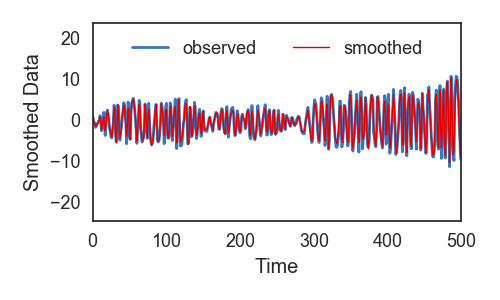
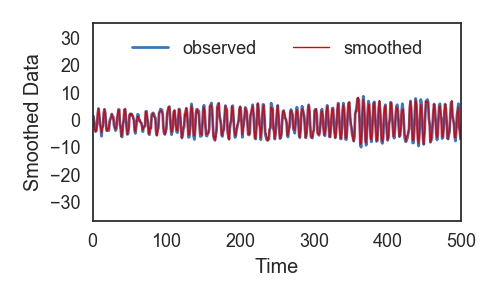
adding mean field support for inputs

diff --git a/pyslds/states.py b/pyslds/states.py
@@ -2,6 +2,7 @@ from __future__ import division
 import numpy as np
 from functools import partial
 
+from pybasicbayes.util.general import objarray
 from pybasicbayes.util.stats import mniw_expectedstats
 
 from pyhsmm.internals.hmm_states import HMMStatesPython, HMMStatesEigen
@@ -42,6 +43,8 @@ class _SLDSStates(object):
 
         elif stateseq is not None:
             self.stateseq = np.array(stateseq,dtype=np.int32)
+            self.generate_gaussian_states()
+
         elif generate:
             if data is not None and not initialize_from_prior:
                 self.resample()
@@ -323,6 +326,11 @@ class _SLDSStatesGibbs(_SLDSStates):
 
 
 class _SLDSStatesMeanField(_SLDSStates):
+    def __init__(self, model, **kwargs):
+        super(_SLDSStatesMeanField, self).__init__(model, **kwargs)
+        self.smoothed_mus = np.zeros((self.T, self.D_latent))
+        self.smoothed_sigmas = np.tile(np.eye(self.D_latent)[None, :, :], (self.T, self.D_latent))
+
     @property
     def expected_info_dynamics_params(self):
         def get_paramseq(distns):
@@ -394,47 +402,19 @@ class _SLDSStatesMeanField(_SLDSStates):
                self.expected_info_emission_params
 
     @property
-    def expected_extra_info_params(self):
-        J_init = np.linalg.inv(self.sigma_init)
-        h_init = np.linalg.solve(self.sigma_init, self.mu_init)
-
-        def get_paramseq(distns):
-            contract = partial(np.tensordot, self.expected_states, axes=1)
-            std_param = lambda d: d._natural_to_standard(d.mf_natural_hypparam)
-            params = [mniw_expectedstats(*std_param(d)) for d in distns]
-            return list(map(contract, zip(*params)))
-
-        expand = lambda a: a[None, ...]
-        stack_set = lambda x: np.concatenate(list(map(expand, x)))
-
-        _, _, _, logdet_pairs = \
-            get_paramseq(self.dynamics_distns)
-
-        # Observations
-        if self.diagonal_noise:
-            E_sigmasq_inv_set = [d.mf_expectations[2] for d in self.emission_distns]
-            J_yy = self.expected_states.dot(stack_set(E_sigmasq_inv_set))
-
-            E_logdet_sigma_set = [-np.sum(d.mf_expectations[3]) for d in self.emission_distns]
-            logdet_node = self.expected_states.dot(stack_set(E_logdet_sigma_set))
-
-        else:
-            J_yy, _, _, logdet_node = get_paramseq(self.emission_distns)
-
-        return J_init, h_init, logdet_pairs, J_yy, logdet_node, self.data
-
-
-    @property
     def mf_aBl(self):
+        """
+        These are the expected log likelihoods (node potentials)
+        as seen from the discrete states.
+        """
         if self._mf_aBl is None:
             mf_aBl = self._mf_aBl = np.zeros((self.T, self.num_states))
             ids, dds, eds = self.init_dynamics_distns, self.dynamics_distns, \
                 self.emission_distns
 
-            # TODO: Update with inputs
             for idx, (d1, d2, d3) in enumerate(zip(ids, dds, eds)):
                 mf_aBl[0,idx] = d1.expected_log_likelihood(
-                    stats=(self.smoothed_mus[0], self.ExxT[0], 1.))
+                    stats=self.E_init_stats)
                 mf_aBl[:-1,idx] += d2.expected_log_likelihood(
                     stats=self.E_dynamics_stats)
                 mf_aBl[:,idx] += d3.expected_log_likelihood(
@@ -468,38 +448,48 @@ class _SLDSStatesMeanField(_SLDSStates):
             self.smoothed_mus,self.smoothed_sigmas,E_xtp1_xtT)
 
     def _set_gaussian_expected_stats(self, smoothed_mus, smoothed_sigmas, E_xtp1_xtT):
-        # TODO: Handle inputs
-
         assert not np.isnan(E_xtp1_xtT).any()
         assert not np.isnan(smoothed_mus).any()
         assert not np.isnan(smoothed_sigmas).any()
 
-        # this is like LDSStates._set_expected_states but doesn't sum over time
+        # This is like LDSStates._set_expected_states but doesn't sum over time
         T = self.T
-        ExxT = self.ExxT = smoothed_sigmas \
-                           + self.smoothed_mus[:, :, None] * self.smoothed_mus[:, None, :]
+        E_x_xT = smoothed_sigmas + self.smoothed_mus[:, :, None] * self.smoothed_mus[:, None, :]
+        E_x_uT = smoothed_mus[:, :, None] * self.inputs[:, None, :]
+        E_u_uT = self.inputs[:, :, None] * self.inputs[:, None, :]
+
+        E_xu_xuT = np.concatenate((
+            np.concatenate((E_x_xT, E_x_uT), axis=2),
+            np.concatenate((np.transpose(E_x_uT, (0, 2, 1)), E_u_uT), axis=2)),
+            axis=1)
+
+        E_xut_xutT = E_xu_xuT[:-1]
+
+        E_xtp1_xtp1T = E_x_xT[1:]
+        E_xtp1_xtT = E_xtp1_xtT
+
+        E_xtp1_utT = (smoothed_mus[1:, :, None] * self.inputs[:-1, None, :])
+        E_xtp1_xutT = np.concatenate((E_xtp1_xtT, E_xtp1_utT), axis=-1)
 
         # Initial state stats
-        self.E_init_stats = (self.smoothed_mus[0], ExxT[0], 1.)
+        self.E_init_stats = (self.smoothed_mus[0], E_x_xT[0], 1.)
 
         # Dynamics stats
         # TODO avoid memory instantiation by adding to Regression (2TD vs TD^2)
         # TODO only compute EyyT once
-        E_xtp1_xtp1T = self.E_xtp1_xtp1T = ExxT[1:]
-        E_xt_xtT = self.E_xt_xtT = ExxT[:-1]
-
-        self.E_dynamics_stats = \
-            (E_xtp1_xtp1T, E_xtp1_xtT, E_xt_xtT, np.ones(T-1))
+        # E_xtp1_xtp1T = self.E_xtp1_xtp1T = E_xu_xuT[1:]
+        # E_xt_xtT = self.E_xt_xtT = E_xu_xuT[:-1]
+        #
+        # self.E_dynamics_stats = \
+        #     (E_xtp1_xtp1T, E_xtp1_xtT, E_xt_xtT, np.ones(T-1))
+        self.E_dynamics_stats = (E_xtp1_xtp1T, E_xtp1_xutT, E_xut_xutT, np.ones(self.T-1))
 
         # Emission stats
-        if self.diagonal_noise:
-            EyyT = self.EyyT = self.data**2
-            EyxT = self.EyxT = self.data[:, :, None] * self.smoothed_mus[:, None, :]
-            self.E_emission_stats = (EyyT, EyxT, ExxT, np.ones(T))
-        else:
-            EyyT = self.EyyT = self.data[:, :, None] * self.data[:, None, :]
-            EyxT = self.EyxT = self.data[:, :, None] * self.smoothed_mus[:, None, :]
-            self.E_emission_stats = (EyyT, EyxT, ExxT, np.ones(T))
+        E_yyT = self.data**2 if self.diagonal_noise else self.data[:, :, None] * self.data[:, None, :]
+        E_yxT = self.data[:, :, None] * self.smoothed_mus[:, None, :]
+        E_yuT = self.data[:, :, None] * self.inputs[:, None, :]
+        E_yxuT = np.concatenate((E_yxT, E_yuT), axis=-1)
+        self.E_emission_stats = (E_yyT, E_yxuT, E_xu_xuT, np.ones(T))
 
 
     def get_vlb(self, most_recently_updated=False):
@@ -533,12 +523,14 @@ class _SLDSStatesMeanField(_SLDSStates):
 
 
 class _SLDSStatesMaskedData(_SLDSStatesGibbs, _SLDSStatesMeanField):
-    def __init__(self, model, T=None, data=None, inputs=None, mask=None, stateseq=None, gaussian_states=None,
-                 generate=True, initialize_from_prior=True, fixed_stateseq=None):
+    def __init__(self, model, data=None, mask=None, **kwargs):
         if mask is not None:
-            assert mask.shape == data.shape
+            # assert mask.shape == data.shape
             self.mask = mask
-        elif data is not None and np.any(np.isnan(data)):
+        elif data is not None and \
+             isinstance(data, np.ndarray) \
+             and np.any(np.isnan(data)):
+
             from warnings import warn
             warn("data includes NaN's. Treating these as missing data.")
             self.mask = ~np.isnan(data)
@@ -548,11 +540,7 @@ class _SLDSStatesMaskedData(_SLDSStatesGibbs, _SLDSStatesMeanField):
         else:
             self.mask = None
 
-        super(_SLDSStatesMaskedData, self).__init__(model, T=T, data=data, inputs=inputs,
-                                                    stateseq=stateseq, gaussian_states=gaussian_states,
-                                                    generate=generate,
-                                                    initialize_from_prior=initialize_from_prior,
-                                                    fixed_stateseq=fixed_stateseq)
+        super(_SLDSStatesMaskedData, self).__init__(model, data=data, **kwargs)
 
     @property
     def info_emission_params(self):
@@ -641,11 +629,11 @@ class _SLDSStatesMaskedData(_SLDSStatesGibbs, _SLDSStatesMeanField):
 
     @property
     def expected_info_emission_params(self):
-        if self.D_input > 0:
-            raise NotImplementedError("Inputs and missing data is not yet supported!")
-
         if self.mask is None:
             return super(_SLDSStatesMaskedData, self).expected_info_emission_params
+
+        if self.D_input > 0:
+            raise NotImplementedError("Inputs and missing data is not yet supported!")
 
         if self.diagonal_noise:
             expand = lambda a: a[None, ...]
@@ -722,17 +710,32 @@ class _SLDSStatesMaskedData(_SLDSStatesGibbs, _SLDSStatesMeanField):
         # Same as in parent class
         # this is like LDSStates._set_expected_states but doesn't sum over time
         T = self.T
-        ExxT = self.ExxT = smoothed_sigmas \
+        E_x_xT = self.ExxT = smoothed_sigmas \
                            + self.smoothed_mus[:, :, None] * self.smoothed_mus[:, None, :]
 
+        E_x_uT = smoothed_mus[:, :, None] * self.inputs[:, None, :]
+        E_u_uT = self.inputs[:, :, None] * self.inputs[:, None, :]
+
+        E_xu_xuT = np.concatenate((
+            np.concatenate((E_x_xT, E_x_uT), axis=2),
+            np.concatenate((np.transpose(E_x_uT, (0, 2, 1)), E_u_uT), axis=2)),
+            axis=1)
+        E_xut_xutT = E_xu_xuT[:-1].sum(0)
+
+        E_xtp1_xtp1T = E_x_xT[1:].sum(0)
+        E_xtp1_xtT = E_xtp1_xtT.sum(0)
+
+        E_xtp1_utT = (smoothed_mus[1:, :, None] * inputs[:-1, None, :]).sum(0)
+        E_xtp1_xutT = np.hstack((E_xtp1_xtT, E_xtp1_utT))
+
         # Initial state stats
-        self.E_init_stats = (self.smoothed_mus[0], ExxT[0], 1.)
+        self.E_init_stats = (self.smoothed_mus[0], E_x_xT[0], 1.)
 
         # Dynamics stats
-        # TODO avoid memory instantiation by adding to Regression (2TD vs TD^2)
-        # TODO only compute EyyT once
-        E_xtp1_xtp1T = self.E_xtp1_xtp1T = ExxT[1:]
-        E_xt_xtT = self.E_xt_xtT = ExxT[:-1]
+        # # TODO avoid memory instantiation by adding to Regression (2TD vs TD^2)
+        # # TODO only compute EyyT once
+        # E_xtp1_xtp1T = self.E_xtp1_xtp1T = ExxT[1:]
+        # E_xt_xtT = self.E_xt_xtT = ExxT[:-1]
 
         self.E_dynamics_stats = \
             (E_xtp1_xtp1T, E_xtp1_xtT, E_xt_xtT, np.ones(T - 1))
@@ -749,11 +752,11 @@ class _SLDSStatesMaskedData(_SLDSStatesGibbs, _SLDSStatesMeanField):
 
         self._mf_aBl = None  # TODO
 
+
 class _SLDSStatesCountData(_SLDSStatesGibbs):
-    def __init__(self, model, data=None, mask=None, fixed_stateseq=None, **kwargs):
+    def __init__(self, model, data=None, mask=None, **kwargs):
         super(_SLDSStatesCountData, self). \
-            __init__(model, data=data, mask=mask,
-                     fixed_stateseq=fixed_stateseq, **kwargs)
+            __init__(model, data=data, mask=mask, **kwargs)
 
         # Check if the emission matrix is a count regression
         if isinstance(self.emission_distns[0], _PGLogisticRegressionBase):

diff --git a/examples/simple_demo.py b/examples/simple_demo.py
@@ -23,7 +23,7 @@ from pybasicbayes.util.text import progprint_xrange
 from pylds.util import random_rotation
 from pyslds.models import DefaultSLDS, DefaultWeakLimitStickyHDPSLDS
 
-npr.seed(3)
+npr.seed(0)
 
 # Set parameters
 K = 5
